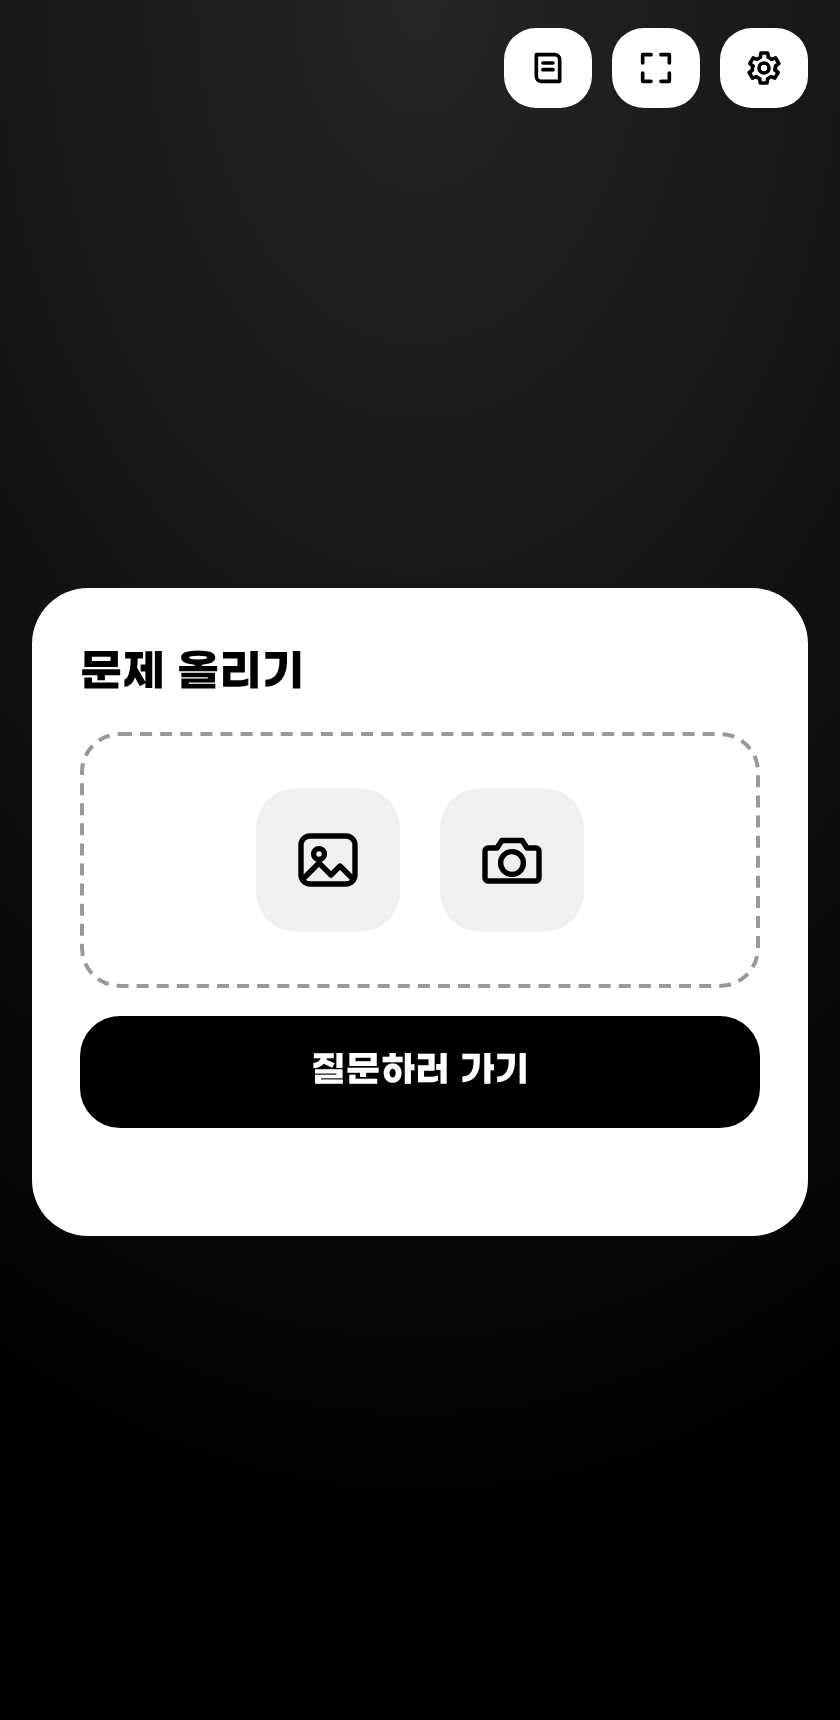
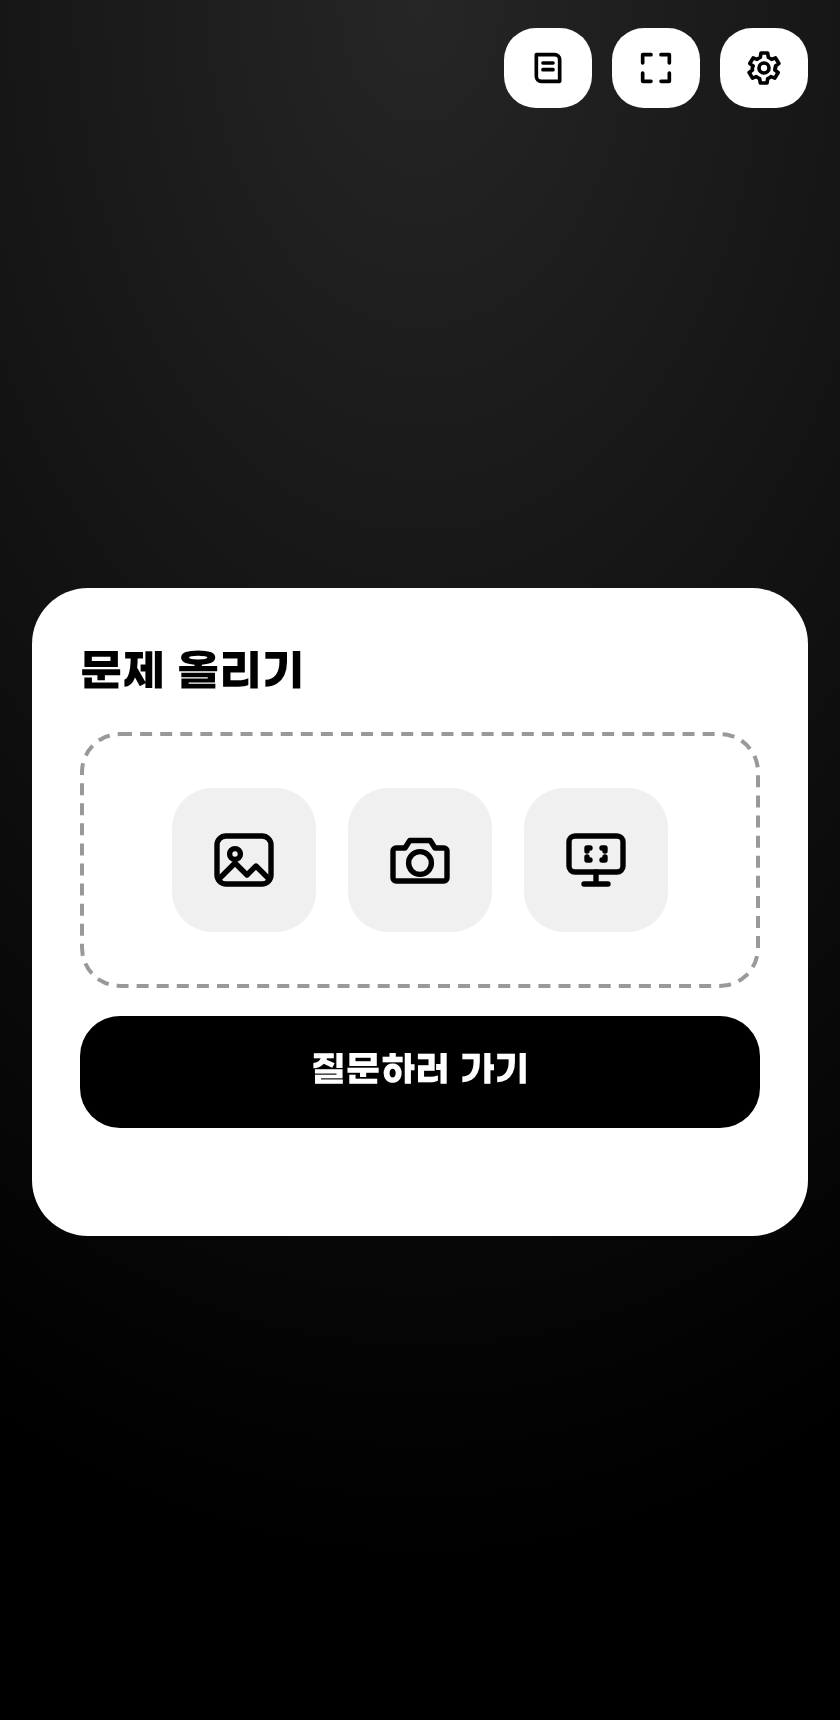
app/: 화면 캡처 아이콘 추가(앱 화면으로 넘어가 캡처 후 드래그로 범위 선택), 스크린샷 갱신
Claude-Session: https://claude.ai/code/session_01FPZSaLSNn1aTWB8AHuvKkg

Changed region(s): [[0.4643, 0.4622, 0.7429, 0.5238], [0.2476, 0.4622, 0.4333, 0.5238]]

diff --git a/app/js/drawer.js b/app/js/drawer.js
@@ -48,12 +48,41 @@ function rebuild() {
 }
 
 async function loadPhoto(file) {
+  try { useSource(await decodeImage(file, 1600)) }
+  catch { $("err").textContent = "이 사진은 읽을 수 없어요. 다른 사진으로 올려주세요." }
+}
+
+/** 사진·캡처 어느 쪽이든 큰 범위 선택 창으로 */
+function useSource(canvas) {
   try {
-    src = await decodeImage(file, 1600);
+    src = canvas;
     rect = autoTrim();
     $("err").textContent = "";
     openCrop(); rebuild();
   } catch { $("err").textContent = "이 사진은 읽을 수 없어요. 다른 사진으로 올려주세요." }
+}
+
+/* ── 화면 캡처: 원하는 앱·화면을 고르고 3초 안에 넘어가면 그 장면을 찍음 (누르면 바로 캡처) ── */
+const sleep = ms => new Promise(r => setTimeout(r, ms));
+async function captureScreen() {
+  let stream;
+  try { stream = await navigator.mediaDevices.getDisplayMedia({ video: true, audio: false }) }
+  catch { return } // 취소
+  try {
+    const video = document.createElement("video");
+    video.srcObject = stream; video.muted = true; await video.play();
+    const cd = $("countdown"), num = $("cdNum");
+    cd.classList.remove("hide");
+    let now = false; cd.onclick = () => { now = true };
+    const end = Date.now() + 3000; // 다른 앱으로 넘어가 이 탭이 느려져도 시간 기준으로 끝남
+    while (!now && Date.now() < end) { num.textContent = Math.ceil((end - Date.now()) / 1000); await sleep(100) }
+    cd.classList.add("hide"); await sleep(250); // 안내 화면이 캡처에 안 찍히게
+    const k = Math.min(1, 2000 / Math.max(video.videoWidth, video.videoHeight));
+    const c = document.createElement("canvas"); c.width = Math.round(video.videoWidth * k); c.height = Math.round(video.videoHeight * k);
+    c.getContext("2d").drawImage(video, 0, 0, c.width, c.height);
+    useSource(c);
+  } catch { $("err").textContent = "화면을 가져오지 못했어요." }
+  finally { stream.getTracks().forEach(t => t.stop()); $("countdown").classList.add("hide") }
 }
 
 function openCrop() {
@@ -89,6 +118,7 @@ export function initDrawer({ onStart }) {
   const drop = $("drop");
   $("pickPhoto").onclick = () => $("probFile").click();
   $("camPhoto").onclick = () => $("probCam").click();
+  if (navigator.mediaDevices?.getDisplayMedia) { $("screenCap").classList.remove("hide"); $("screenCap").onclick = captureScreen }
   for (const id of ["probFile", "probCam"]) $(id).onchange = e => { const f = e.target.files[0]; if (f) loadPhoto(f); e.target.value = "" };
   drop.ondragover = e => e.preventDefault();
   drop.ondrop = e => { e.preventDefault(); const f = e.dataTransfer.files[0]; if (f?.type.startsWith("image/")) loadPhoto(f) };

diff --git a/app/index.html b/app/index.html
@@ -46,6 +46,7 @@
   <div class="drop" id="drop" role="group" aria-label="문제 사진 올리기 (끌어다 놓기·붙여넣기도 가능)">
     <button class="btn icon" id="pickPhoto" type="button" aria-label="앨범에서 고르기"><svg viewBox="0 0 24 24" aria-hidden="true"><rect x="3" y="4" width="18" height="16" rx="3"/><circle cx="9" cy="10" r="1.8"/><path d="M4 18l5-5 4 4 3-3 4 4"/></svg></button>
     <button class="btn icon" id="camPhoto" type="button" aria-label="카메라로 찍기"><svg viewBox="0 0 24 24" aria-hidden="true"><path d="M4 8h3l1.6-2.5h6.8L17 8h3a1 1 0 0 1 1 1v9a1 1 0 0 1-1 1H4a1 1 0 0 1-1-1V9a1 1 0 0 1 1-1z"/><circle cx="12" cy="13" r="3.8"/></svg></button>
+    <button class="btn icon hide" id="screenCap" type="button" aria-label="다른 앱·화면에서 캡처하기"><svg viewBox="0 0 24 24" aria-hidden="true"><rect x="3" y="4" width="18" height="12" rx="2"/><path d="M8 20h8M12 16v4M9 8v1M9 8h1M15 8v1M15 8h-1M9 12v-1M9 12h1M15 12v-1M15 12h-1"/></svg></button>
   </div>
   <div id="probPrev" class="hide row"><button class="btn" id="recrop" type="button">범위 다시 고르기</button><span class="note" id="probInfo"></span></div>
   <input type="file" id="probFile" accept="image/*" class="hide">
@@ -53,6 +54,9 @@
   <button class="big-btn go" id="go" type="button">질문하러 가기</button>
   <div class="err" id="err" role="alert"></div>
 </main>
+
+<!-- 화면 캡처 카운트다운: 원하는 앱 화면으로 넘어갈 시간. 누르면 바로 캡처 -->
+<div class="countdown hide" id="countdown" role="status" aria-live="assertive"><span id="cdNum"></span></div>
 
 <!-- 문제 범위 고르기 (사진을 크게 보여줌) -->
 <dialog id="cropDlg" class="crop">

diff --git a/app/css/stage.css b/app/css/stage.css
@@ -6,6 +6,8 @@
 .compose{position:absolute;inset:68px var(--gut-r) 16px var(--gut-l);margin:auto;width:min(560px,calc(100% - var(--gut-l) - var(--gut-r)));max-height:calc(100% - 84px);height:fit-content;overflow:auto;background:var(--card);border-radius:28px;padding:24px;display:flex;flex-direction:column;gap:14px;box-shadow:var(--sh);animation:pop .55s var(--pop) backwards}
 .compose h1{font-family:"Gmarket";font-weight:700;font-size:22px;margin:0}
 .ask-mode .compose{display:none}
-.drop{display:flex;align-items:center;justify-content:center;gap:20px;border:2px dashed #999;border-radius:var(--r);padding:26px}
+.drop{display:flex;align-items:center;justify-content:center;gap:16px;border:2px dashed #999;border-radius:var(--r);padding:26px}
 .btn.icon{display:flex;align-items:center;justify-content:center;width:72px;height:72px;padding:0;border-radius:20px;color:#000}
 .btn.icon svg{width:36px;height:36px;fill:none;stroke:currentColor;stroke-width:1.8;stroke-linecap:round;stroke-linejoin:round}
+.countdown{position:fixed;inset:0;z-index:100;display:flex;align-items:center;justify-content:center;background:rgba(0,0,0,.72);cursor:pointer}
+.countdown span{font-family:"Gmarket";font-weight:700;font-size:min(40vw,200px);color:#fff;line-height:1}

diff --git a/app/sw.js b/app/sw.js
@@ -1,5 +1,5 @@
 /* 서비스 워커: 앱 파일을 저장해 두어 오프라인에서도 열리게 함 (Anthropic API 요청은 건드리지 않음) */
-const VERSION = "v14";
+const VERSION = "v15";
 const CACHE = "study-tutor-" + VERSION;
 const SHELL = [
   "./",

diff --git a/app/README.md b/app/README.md
@@ -12,6 +12,11 @@ PC 화면: [첫 화면](screenshots/pc-1-home.png) · [범위 고르기](screens
 
 (스크린샷은 가짜 응답으로 찍은 예시입니다.)
 
+## 문제 올리는 법
+- 앨범 아이콘: 사진 고르기 / 카메라 아이콘: 바로 찍기
+- 화면 아이콘: 원하는 앱·창·화면을 고르면 3초 카운트다운 뒤 그 화면을 캡처합니다(숫자를 누르면 바로 캡처). 그 사이 원하는 앱 화면으로 넘어가면 됩니다. 컴퓨터 브라우저에서만 보이고, 폰 브라우저 대부분은 화면 캡처를 지원하지 않아 아이콘이 나타나지 않습니다.
+- 어느 쪽이든 사진이 큰 창에 뜨면 끌어서 문제 범위를 정하고 "완료"를 누릅니다. 붙여넣기(Ctrl+V)와 끌어다 놓기도 됩니다.
+
 ## 폴더
 - `index.html` 화면 뼈대, `css/` 스타일, `js/` ES 모듈
   - `drawer.js` 문제 올리기 화면(사진/글, 영역 선택)
